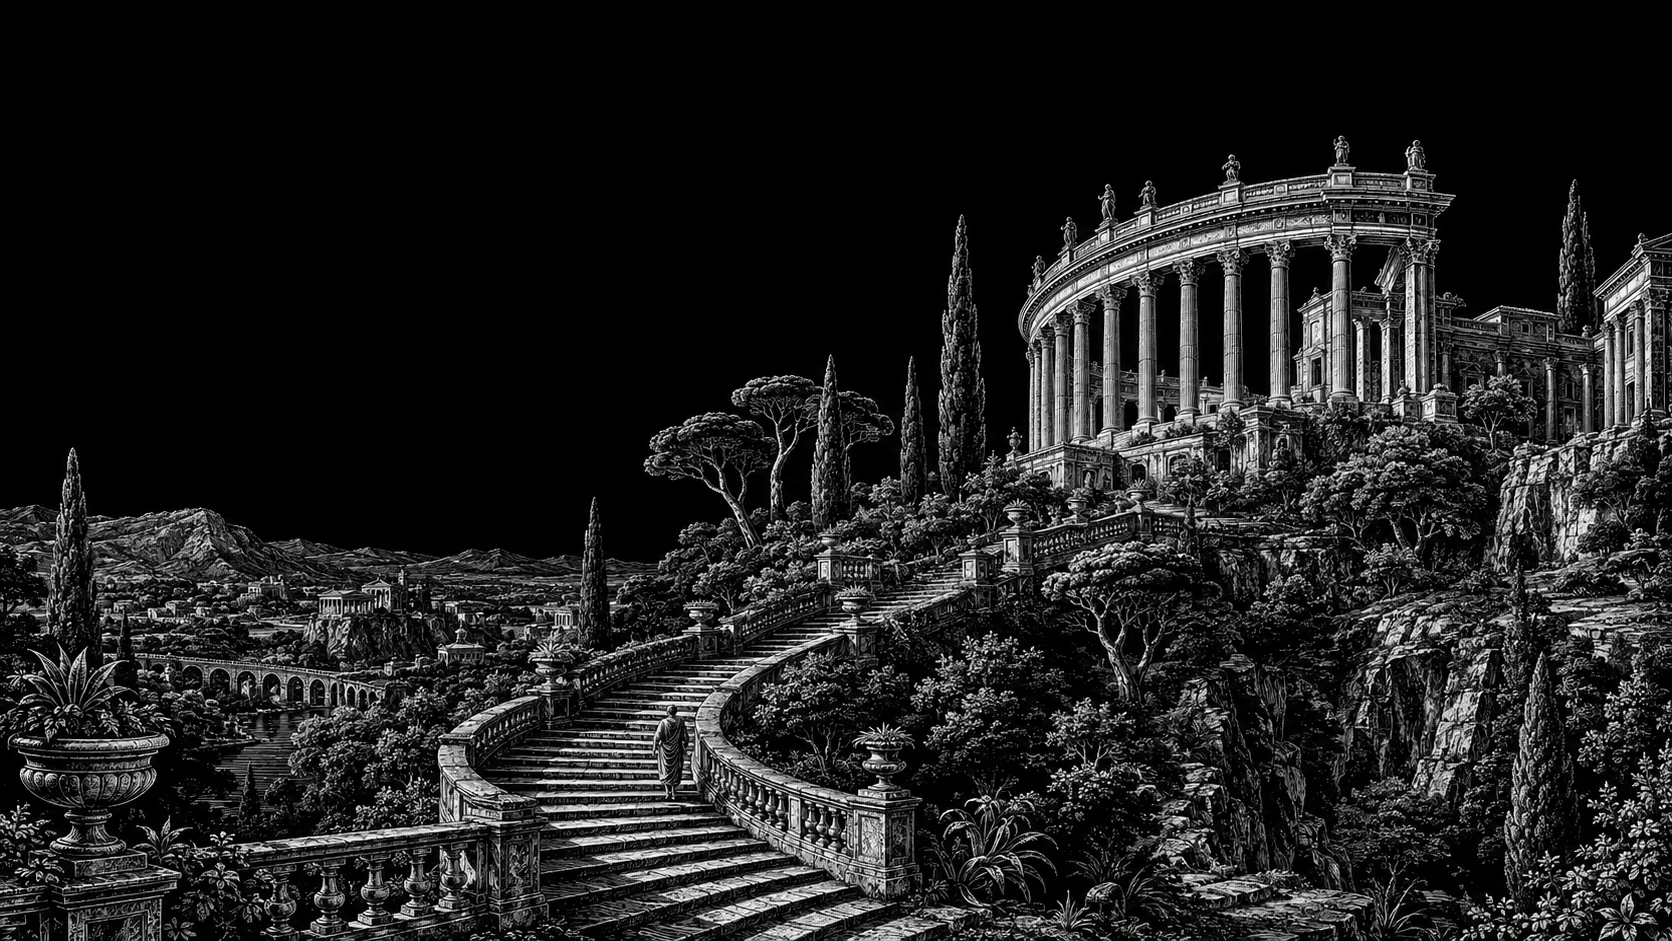
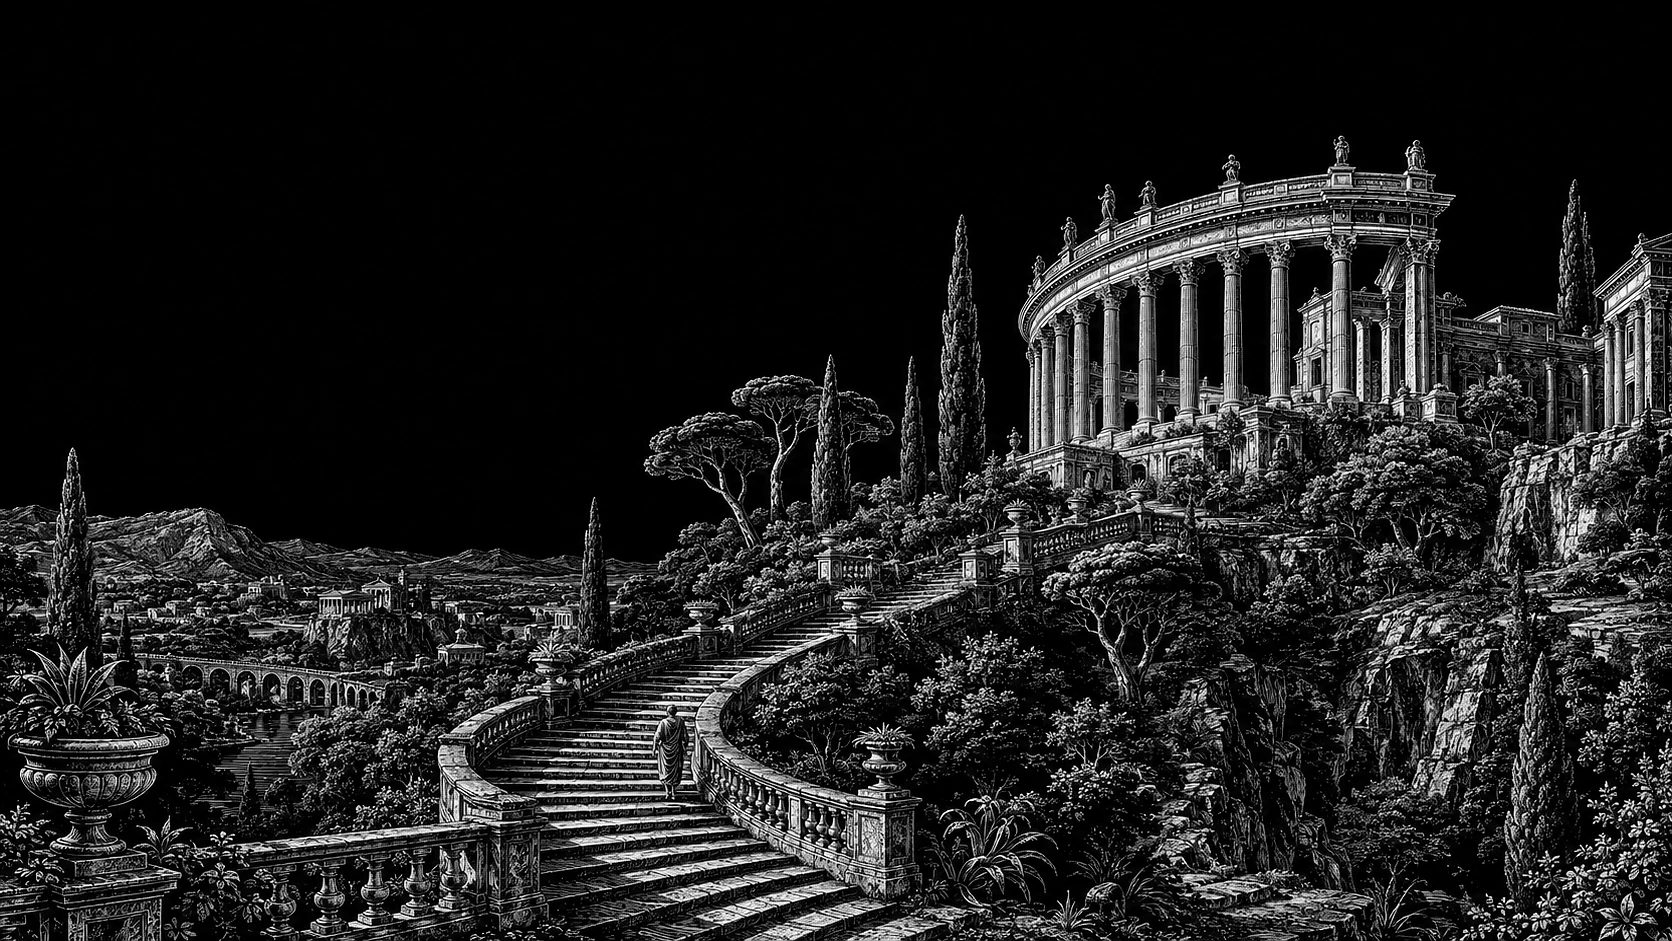
fix: sharpen footer artwork for high-density displays

diff --git a/apps/blog/src/styles/app.css b/apps/blog/src/styles/app.css
@@ -5,6 +5,22 @@
 
 @custom-variant dark (&:is(.dark *));
 
+/* Keep phones on the smaller engraving. Wide and dense displays get the
+   sharpened 2x export; CSS responds to resizing/zoom without JS listeners.
+   The URL is only consumed when the footer's lazy-load gate opens. */
+.footer-ink {
+  --footer-ink: url("/media/roman.webp");
+}
+
+@media (min-width: 1673px),
+  (min-width: 1338px) and (min-resolution: 1.25dppx),
+  (min-width: 837px) and (min-resolution: 1.5dppx),
+  (min-width: 558px) and (min-resolution: 2.5dppx) {
+  .footer-ink {
+    --footer-ink: url("/media/roman@2x.webp");
+  }
+}
+
 :root {
   --background: oklch(1 0 0);
   --foreground: oklch(0.141 0.005 285.823);

diff --git a/apps/blog/src/components/footer.tsx b/apps/blog/src/components/footer.tsx
@@ -133,8 +133,8 @@ export function Footer() {
         />
         <div
           data-scene-layer="ink"
-          className="absolute inset-0 bg-primary [mask-mode:luminance] [mask-size:100%_100%] [mask-repeat:no-repeat] dark:opacity-70"
-          style={{ maskImage: loadArtwork ? 'url("/media/roman.webp")' : "none" }}
+          className="footer-ink absolute inset-0 bg-primary [mask-mode:luminance] [mask-size:100%_100%] [mask-repeat:no-repeat] dark:opacity-70"
+          style={{ maskImage: loadArtwork ? "var(--footer-ink)" : "none" }}
         />
       </div>
       {/* Separate backings protect text contrast without hiding the scenery

diff --git a/docs/design/footer.md b/docs/design/footer.md
@@ -31,9 +31,27 @@ This brings a small part of the engraving into the homepage's initial desktop
 viewport while keeping the visible ink below the links and the credits at the
 bottom of the artwork. Shorter viewports still use normal document scrolling.
 
-Final asset: `apps/blog/public/media/roman.webp`, 1672 × 941, 390,398 bytes.
-Encoded from the generated PNG with ImageMagick at WebP quality 88; no runtime
-image library or new dependency. The supplied portrait remains untouched.
+The engraving has two sharpened exports: `apps/blog/public/media/roman.webp`
+(1672 × 941, 476,618 bytes) and `roman@2x.webp` (3344 × 1882, about 1.25 MB).
+Both come from the generated PNG, preserved as a lossless 8-bit monochrome master
+at `apps/blog/scripts/assets/roman.png`. Converting that master to grayscale
+removes irrelevant color data from the white-on-black luminance artwork.
+The master stays outside `public`, so browsers never download it.
+
+Run `node apps/blog/scripts/upscale.mjs` with ImageMagick 7 to rebuild both WebPs
+and the SVG occlusion mask. Lanczos resampling preserves the scene's exact
+composition; a small unsharp-mask radius (0.4 source pixels, doubled at 2x)
+strengthens fine ink edges without broad halos. WebP quality 92 preserves more
+linework than the previous quality-88 export. This is deterministic sharpening
+and resampling, not invented architectural detail or a generative redraw.
+No runtime image library or new dependency is needed.
+
+CSS selects the large export above 1672 CSS pixels, above 1337 pixels at 1.25x
+density, above 836 pixels at 1.5x density, or above 557 pixels at 2.5x density.
+This includes desktop zoom and dense tablets while keeping phones on the smaller
+asset. The selected URL is not used until the existing viewport gate opens.
+Both variants occupy the same reserved frame and share the same vector
+occlusion geometry. The supplied portrait remains untouched.
 
 The occlusion mask is `apps/blog/public/media/roman.svg`, about 4.3 KB (1.6 KB
 with Brotli compression). It fills below the skyline, then carves seven
@@ -78,6 +96,10 @@ then verifies pause, scrolling while paused, and resuming without a jump. Unit
 tests also check equal travel at different frame rates and after skipped frames.
 The fixture renders the actual footer, router, fonts, and styles outside public
 application routes. Browser suites use separate Vite caches and entry scans.
+Resolution tests cover phones, standard and high-density desktops, and wide
+screens. They hold the image response to verify that the frame and document
+height stay fixed through decoding and that only the selected export loads.
+The column-opening pixel checks also run against the 2x engraving.
 
 Generation prompt:
 
